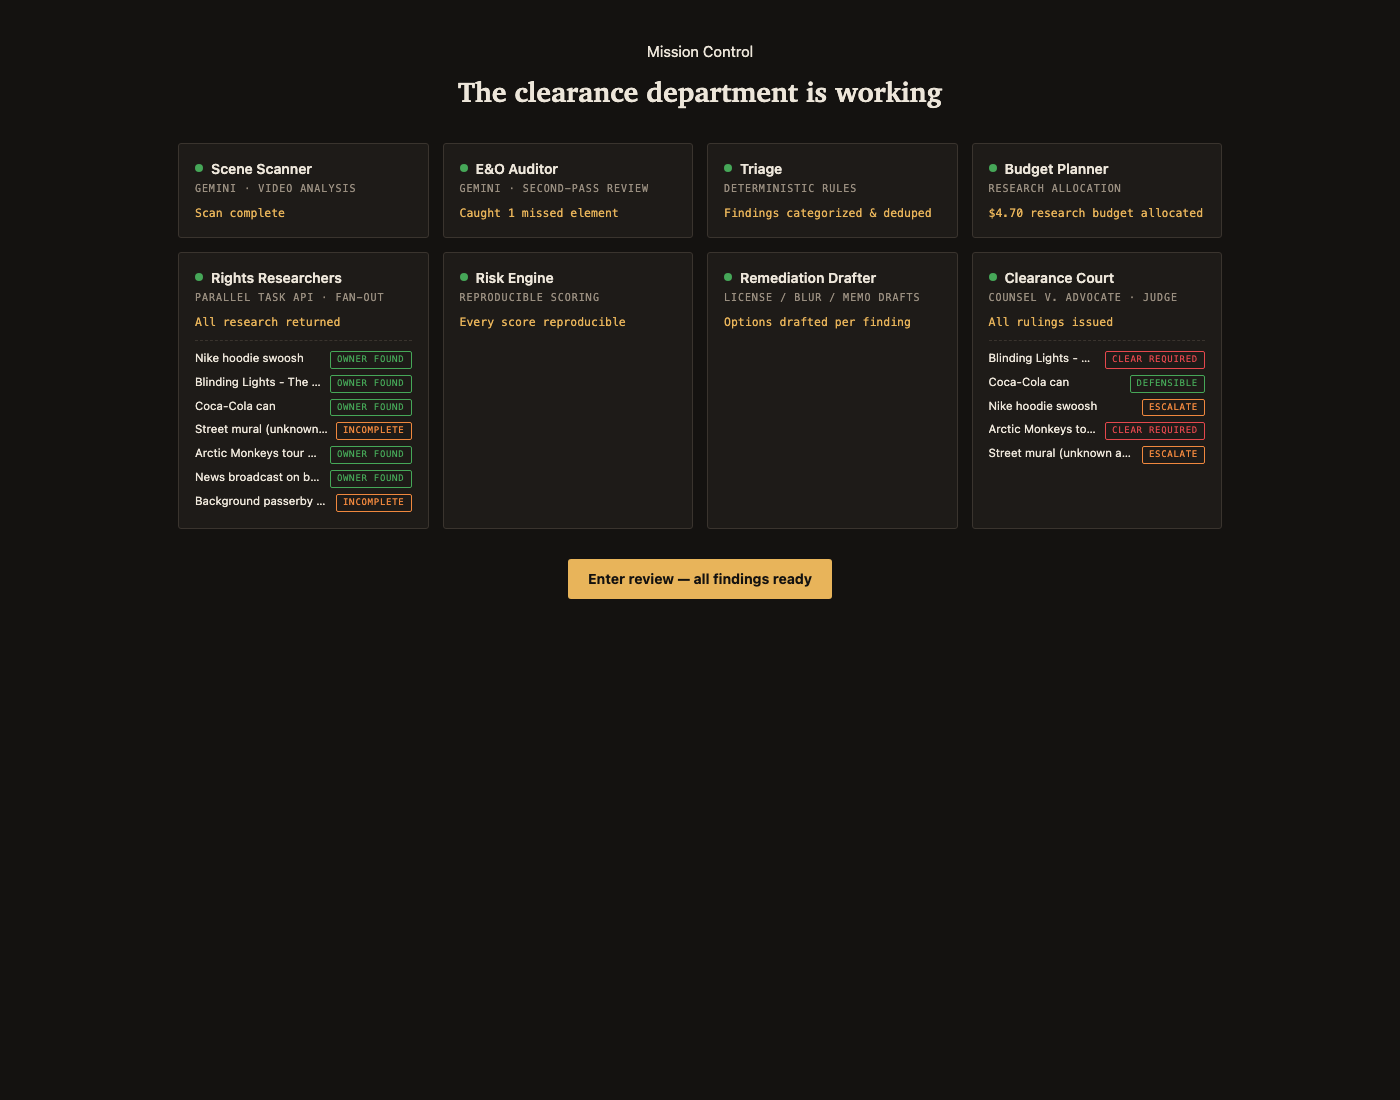
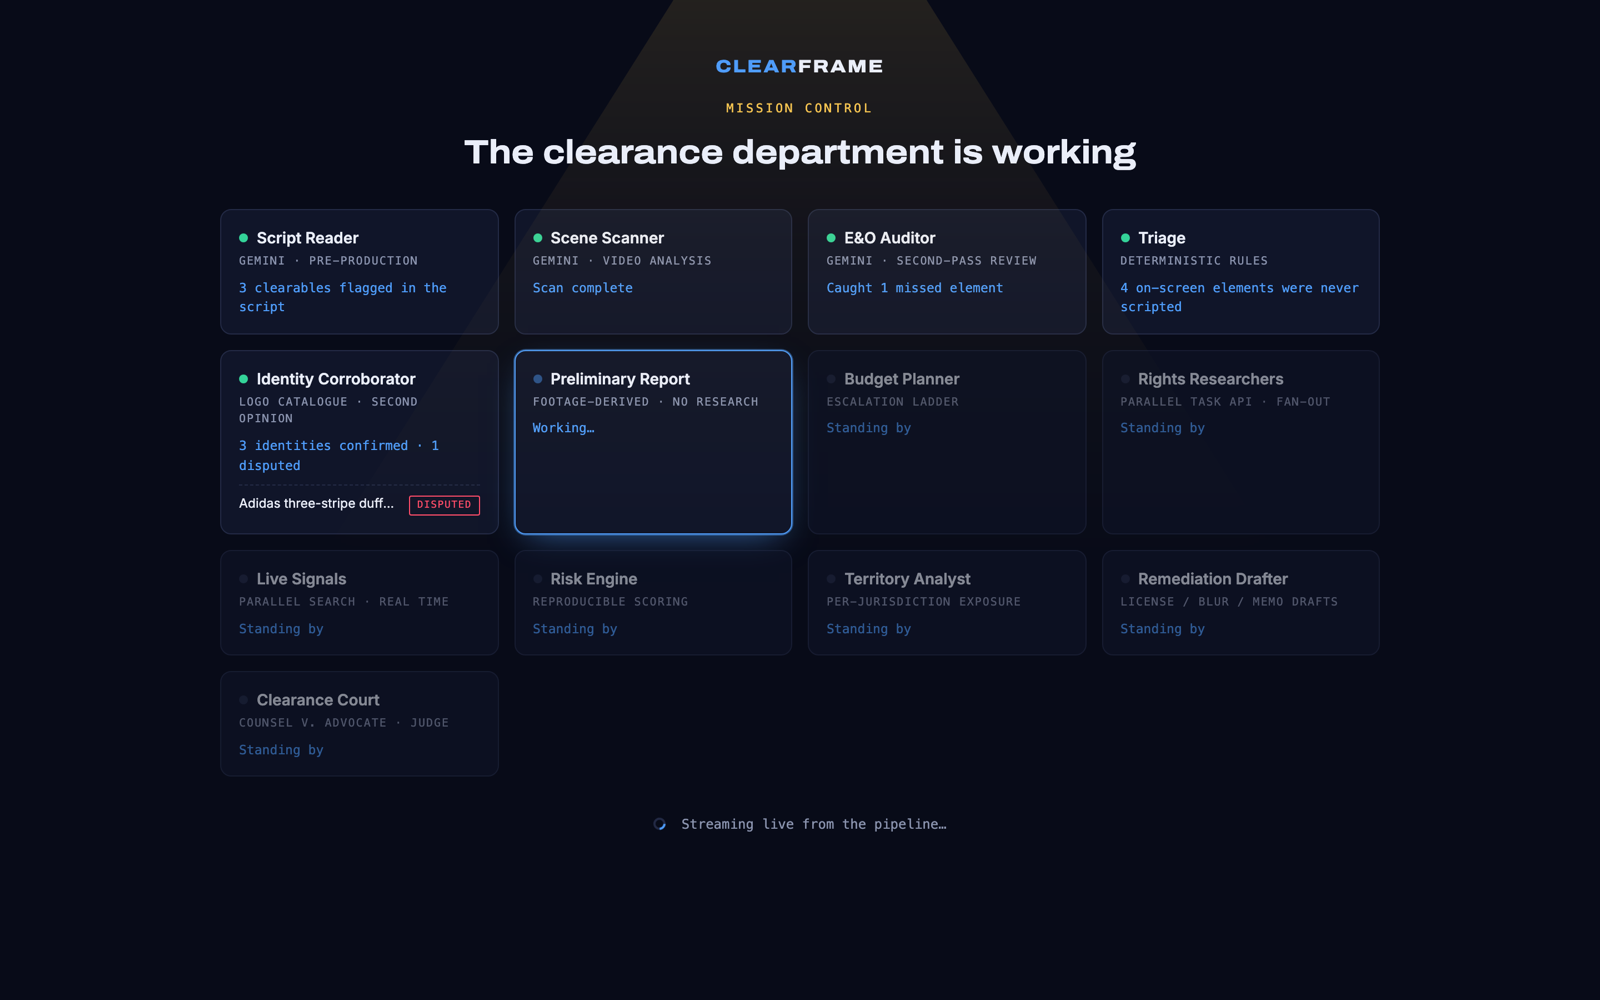
docs: replace screenshots with the new UI + drop build cache
Fresh 1080p screenshots of the redesigned UI — studio dashboard (hero),
cinematic sign-in, the review screen with the risk timeline and cost
blocks, and the Mission Control agent roster — captured from demo mode and
resized for the repo. Removes the stale pre-redesign review-ui.png and
stops tracking webapp/tsconfig.tsbuildinfo (a TypeScript build cache).

Claude-Session: https://claude.ai/code/session_012rQz5x8E5j52d7vqgpSRT5

diff --git a/README.md b/README.md
@@ -13,7 +13,13 @@ Built for the Google Cloud **Agentic Cinema** hackathon, **Parallel** partner tr
 
 > Roles are open on this deployment so a first-time visitor can exercise every control without waiting to be granted one. The UI labels a self-selected role `chosen`, and an email the provider has not verified is recorded as `(unverified)` in the audit trail — a self-selected role presented as governance would be worse than none.
 
-![ClearFrame review UI](docs/images/review-ui.png)
+![Cinematic sign-in](docs/images/signin.jpg)
+
+*The way in — a wall of drawn posters under a projector beam. Sign in, pick a role, and every control is yours to try.*
+
+![ClearFrame — the studio dashboard](docs/images/dashboard.png)
+
+*The dashboard: each production's poster is a real frame from its own footage — there is no stock art anywhere in the product.*
 
 
 ## Architecture
@@ -88,6 +94,10 @@ the risk score is pure, reproducible code, and a human signs every finding.
 **Outputs:** `dossier.html` / `dossier.docx` (E&O report with court opinions and
 an append-only audit trail), plus `markers.edl` (NLE), `markers.csv`, and
 `cue_sheet.csv` (ASCAP/BMI).
+
+![Reviewing findings on the risk timeline](docs/images/review.png)
+
+*The review screen: every finding on a risk-coloured timeline, each priced by what shipping it uncleared would cost — a human approves every call.*
 
 ### We don't guess at brands
 
